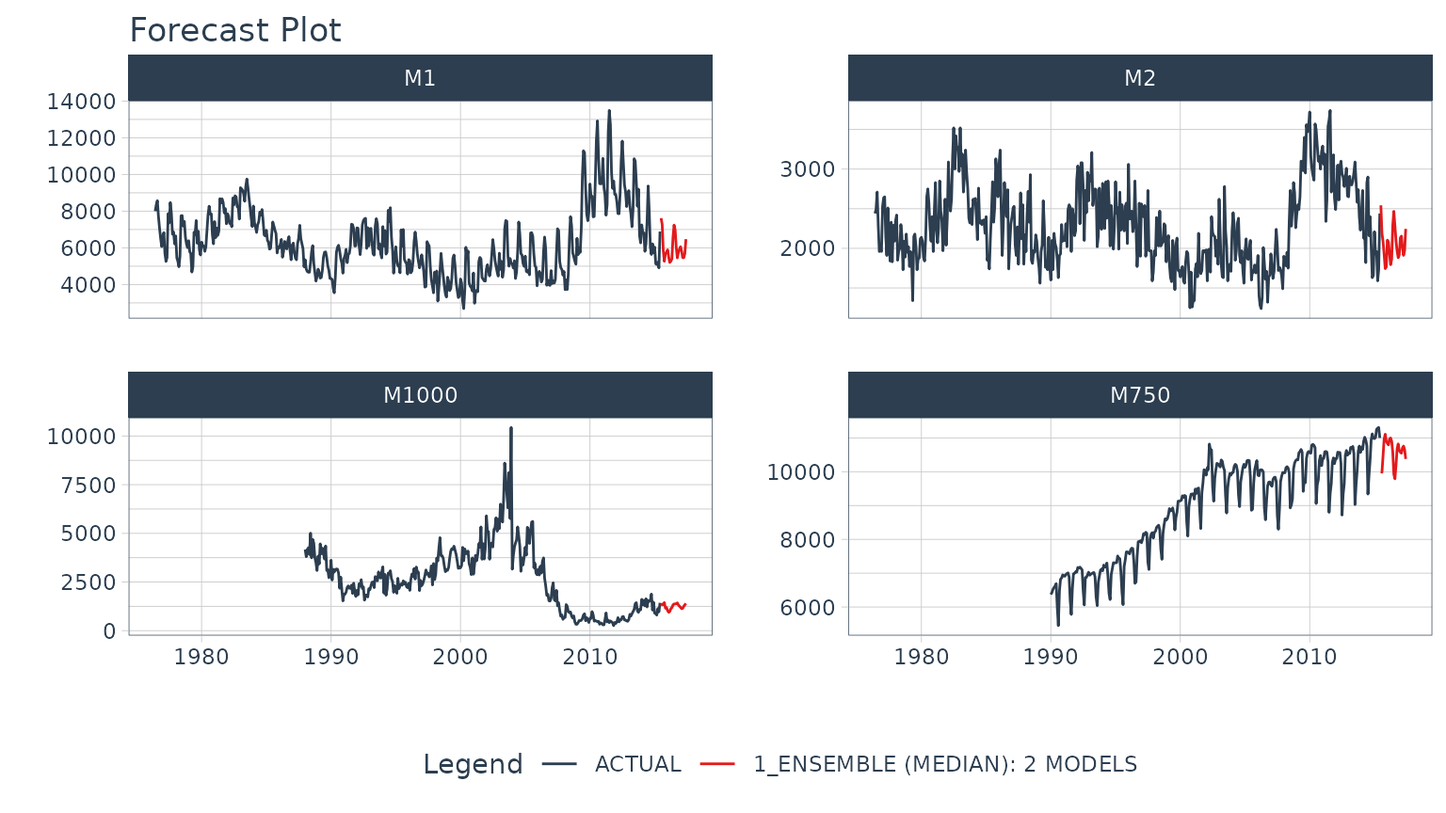
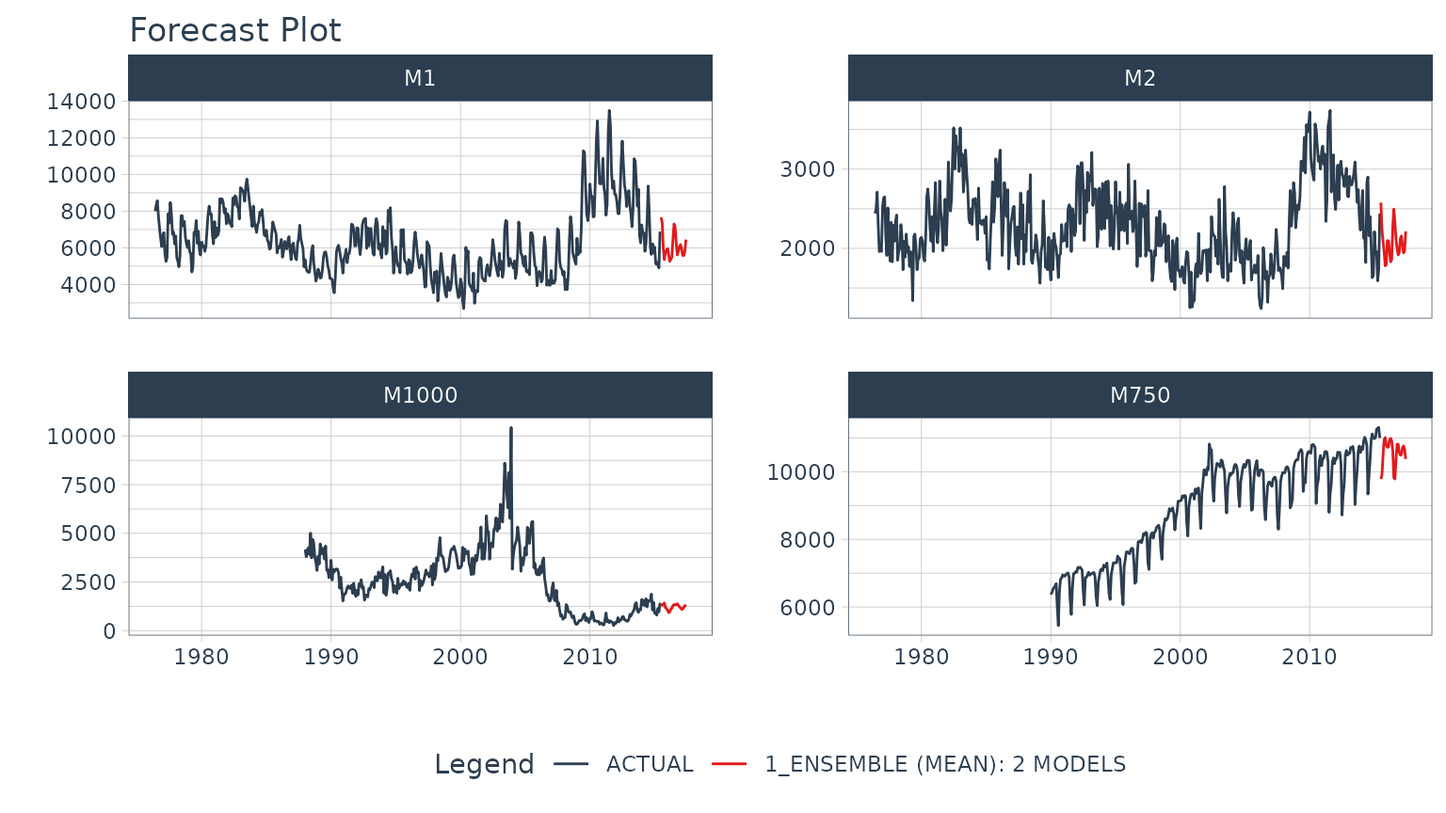
Built site for modeltime.ensemble: 0.3.0.9000@358ac2a

diff --git a/articles/recursive-ensembles.html b/articles/recursive-ensembles.html
@@ -5,7 +5,7 @@
 <meta charset="utf-8">
 <meta http-equiv="X-UA-Compatible" content="IE=edge">
 <meta name="viewport" content="width=device-width, initial-scale=1.0">
-<title>Forecasting with Recursive Ensembles • modeltime.ensemble</title>
+<title>Autoregressive Forecasting (Recursive Ensembles) • modeltime.ensemble</title>
 <!-- favicons --><link rel="icon" type="image/png" sizes="16x16" href="../favicon-16x16.png">
 <link rel="icon" type="image/png" sizes="32x32" href="../favicon-32x32.png">
 <link rel="apple-touch-icon" type="image/png" sizes="180x180" href="../apple-touch-icon.png">
@@ -17,7 +17,7 @@
 <script src="../bootstrap-toc.js"></script><!-- Font Awesome icons --><link rel="stylesheet" href="https://cdnjs.cloudflare.com/ajax/libs/font-awesome/5.12.1/css/all.min.css" integrity="sha256-mmgLkCYLUQbXn0B1SRqzHar6dCnv9oZFPEC1g1cwlkk=" crossorigin="anonymous">
 <link rel="stylesheet" href="https://cdnjs.cloudflare.com/ajax/libs/font-awesome/5.12.1/css/v4-shims.min.css" integrity="sha256-wZjR52fzng1pJHwx4aV2AO3yyTOXrcDW7jBpJtTwVxw=" crossorigin="anonymous">
 <!-- clipboard.js --><script src="https://cdnjs.cloudflare.com/ajax/libs/clipboard.js/2.0.6/clipboard.min.js" integrity="sha256-inc5kl9MA1hkeYUt+EC3BhlIgyp/2jDIyBLS6k3UxPI=" crossorigin="anonymous"></script><!-- headroom.js --><script src="https://cdnjs.cloudflare.com/ajax/libs/headroom/0.11.0/headroom.min.js" integrity="sha256-AsUX4SJE1+yuDu5+mAVzJbuYNPHj/WroHuZ8Ir/CkE0=" crossorigin="anonymous"></script><script src="https://cdnjs.cloudflare.com/ajax/libs/headroom/0.11.0/jQuery.headroom.min.js" integrity="sha256-ZX/yNShbjqsohH1k95liqY9Gd8uOiE1S4vZc+9KQ1K4=" crossorigin="anonymous"></script><!-- pkgdown --><link href="../pkgdown.css" rel="stylesheet">
-<script src="../pkgdown.js"></script><meta property="og:title" content="Forecasting with Recursive Ensembles">
+<script src="../pkgdown.js"></script><meta property="og:title" content="Autoregressive Forecasting (Recursive Ensembles)">
 <meta property="og:description" content="modeltime.ensemble">
 <!-- mathjax --><script src="https://cdnjs.cloudflare.com/ajax/libs/mathjax/2.7.5/MathJax.js" integrity="sha256-nvJJv9wWKEm88qvoQl9ekL2J+k/RWIsaSScxxlsrv8k=" crossorigin="anonymous"></script><script src="https://cdnjs.cloudflare.com/ajax/libs/mathjax/2.7.5/config/TeX-AMS-MML_HTMLorMML.js" integrity="sha256-84DKXVJXs0/F8OTMzX4UR909+jtl4G7SPypPavF+GfA=" crossorigin="anonymous"></script><!--[if lt IE 9]>
 <script src="https://oss.maxcdn.com/html5shiv/3.7.3/html5shiv.min.js"></script>
@@ -70,7 +70,7 @@
       <a href="../articles/getting-started-with-modeltime-ensemble.html">Getting Started with Modeltime</a>
     </li>
     <li>
-      <a href="../articles/recursive-ensembles.html">Recursive Ensemble Forecasting</a>
+      <a href="../articles/recursive-ensembles.html">Autoregressive Forecasting (Recursive Ensembles)</a>
     </li>
   </ul>
 </li>
@@ -156,7 +156,7 @@
       </header><script src="recursive-ensembles_files/accessible-code-block-0.0.1/empty-anchor.js"></script><div class="row">
   <div class="col-md-9 contents">
     <div class="page-header toc-ignore">
-      <h1 data-toc-skip>Forecasting with Recursive Ensembles</h1>
+      <h1 data-toc-skip>Autoregressive Forecasting (Recursive Ensembles)</h1>
             
       
       <small class="dont-index">Source: <a href="https://github.com/business-science/modeltime.ensemble/blob/master/vignettes/recursive-ensembles.Rmd"><code>vignettes/recursive-ensembles.Rmd</code></a></small>
@@ -180,7 +180,7 @@
 <li><p><strong>Single ensemble recursive predictions</strong> - Effectively turning any <code>ensemble</code> model into an Autoregressive (AR) model</p></li>
 <li><p><strong>Panel ensembles recursive predictions</strong> - In many situations we need to forecast <strong>more than one time series</strong>. We can batch-process these with 1 model by processing time series groups as panels. This technique can be extended to recursive forecasting for scalable models (1 model that predicts many time series).</p></li>
 </ol>
-<p>Here’s an example of a panel forecast that uses a recursive ensemble with a Linear Regression and MARS model.</p>
+<p>Here’s an example of a panel forecast that uses a recursive ensemble with a Elastic Net and MARS model.</p>
 <p><img src="panel-ensemble.jpg" width="95%" style="display: block; margin: auto;"></p>
 </div>
 <div id="single-ensemble-recursive-example" class="section level1">
@@ -195,6 +195,7 @@
 <span class="kw"><a href="https://rdrr.io/r/base/library.html">library</a></span><span class="op">(</span><span class="va"><a href="https://github.com/business-science/modeltime">modeltime</a></span><span class="op">)</span>
 <span class="kw"><a href="https://rdrr.io/r/base/library.html">library</a></span><span class="op">(</span><span class="va"><a href="https://tidymodels.tidymodels.org">tidymodels</a></span><span class="op">)</span>
 <span class="kw"><a href="https://rdrr.io/r/base/library.html">library</a></span><span class="op">(</span><span class="va"><a href="http://www.milbo.users.sonic.net/earth/">earth</a></span><span class="op">)</span>
+<span class="kw"><a href="https://rdrr.io/r/base/library.html">library</a></span><span class="op">(</span><span class="va"><a href="https://glmnet.stanford.edu">glmnet</a></span><span class="op">)</span>
 <span class="kw"><a href="https://rdrr.io/r/base/library.html">library</a></span><span class="op">(</span><span class="va"><a href="http://tidyverse.tidyverse.org">tidyverse</a></span><span class="op">)</span>
 <span class="kw"><a href="https://rdrr.io/r/base/library.html">library</a></span><span class="op">(</span><span class="va"><a href="https://lubridate.tidyverse.org">lubridate</a></span><span class="op">)</span>
 <span class="kw"><a href="https://rdrr.io/r/base/library.html">library</a></span><span class="op">(</span><span class="va"><a href="https://github.com/business-science/timetk">timetk</a></span><span class="op">)</span></code></pre></div>
@@ -209,34 +210,35 @@
         .bind_data  <span class="op">=</span> <span class="cn">TRUE</span>
     <span class="op">)</span> <span class="op">%&gt;%</span>
     <span class="fu">ungroup</span><span class="op">(</span><span class="op">)</span></code></pre></div>
-<p>The next step is to create a recipe where we specify the formula we are going to use and create the lagged variables that our model will use. Notice that we create lags up to our forecast horizon.</p>
+<p>The next step is to create a <strong><em>Transformer Function</em></strong> where we create the lagged variables that our model will use. Notice that we create lags up to our forecast horizon. We could also include rolling features and any number of other “engineered features” based on lags.</p>
 <div class="sourceCode" id="cb3"><pre class="downlit sourceCode r">
-<code class="sourceCode R"><span class="va">recipe_lag</span> <span class="op">&lt;-</span> <span class="fu">recipe</span><span class="op">(</span><span class="va">value</span> <span class="op">~</span> <span class="va">date</span>, <span class="va">m750_extended</span><span class="op">)</span> <span class="op">%&gt;%</span>
-    <span class="fu">step_lag</span><span class="op">(</span><span class="va">value</span>, lag <span class="op">=</span> <span class="fl">1</span><span class="op">:</span><span class="va">FORECAST_HORIZON</span><span class="op">)</span>
+<code class="sourceCode R"><span class="va">lag_transformer</span> <span class="op">&lt;-</span> <span class="kw">function</span><span class="op">(</span><span class="va">data</span><span class="op">)</span><span class="op">{</span>
+    <span class="va">data</span> <span class="op">%&gt;%</span>
+        <span class="fu"><a href="https://rdrr.io/pkg/timetk/man/tk_augment_lags.html">tk_augment_lags</a></span><span class="op">(</span><span class="va">value</span>, .lags <span class="op">=</span> <span class="fl">1</span><span class="op">:</span><span class="va">FORECAST_HORIZON</span><span class="op">)</span>
+<span class="op">}</span>
 
 <span class="co"># Data Preparation</span>
-<span class="va">m750_lagged</span> <span class="op">&lt;-</span> <span class="va">recipe_lag</span> <span class="op">%&gt;%</span> <span class="fu">prep</span><span class="op">(</span><span class="op">)</span> <span class="op">%&gt;%</span> <span class="fu">juice</span><span class="op">(</span><span class="op">)</span>
+<span class="va">m750_lagged</span> <span class="op">&lt;-</span> <span class="va">m750_extended</span> <span class="op">%&gt;%</span> <span class="fu">lag_transformer</span><span class="op">(</span><span class="op">)</span>
 <span class="va">m750_lagged</span></code></pre></div>
-<pre><code>#&gt; # A tibble: 330 x 26
-#&gt;    date       value lag_1_value lag_2_value lag_3_value lag_4_value lag_5_value
-#&gt;    &lt;date&gt;     &lt;dbl&gt;       &lt;dbl&gt;       &lt;dbl&gt;       &lt;dbl&gt;       &lt;dbl&gt;       &lt;dbl&gt;
-#&gt;  1 1990-01-01  6370          NA          NA          NA          NA          NA
-#&gt;  2 1990-02-01  6430        6370          NA          NA          NA          NA
-#&gt;  3 1990-03-01  6520        6430        6370          NA          NA          NA
-#&gt;  4 1990-04-01  6580        6520        6430        6370          NA          NA
-#&gt;  5 1990-05-01  6620        6580        6520        6430        6370          NA
-#&gt;  6 1990-06-01  6690        6620        6580        6520        6430        6370
-#&gt;  7 1990-07-01  6000        6690        6620        6580        6520        6430
-#&gt;  8 1990-08-01  5450        6000        6690        6620        6580        6520
-#&gt;  9 1990-09-01  6480        5450        6000        6690        6620        6580
-#&gt; 10 1990-10-01  6820        6480        5450        6000        6690        6620
-#&gt; # … with 320 more rows, and 19 more variables: lag_6_value &lt;dbl&gt;,
-#&gt; #   lag_7_value &lt;dbl&gt;, lag_8_value &lt;dbl&gt;, lag_9_value &lt;dbl&gt;,
-#&gt; #   lag_10_value &lt;dbl&gt;, lag_11_value &lt;dbl&gt;, lag_12_value &lt;dbl&gt;,
-#&gt; #   lag_13_value &lt;dbl&gt;, lag_14_value &lt;dbl&gt;, lag_15_value &lt;dbl&gt;,
-#&gt; #   lag_16_value &lt;dbl&gt;, lag_17_value &lt;dbl&gt;, lag_18_value &lt;dbl&gt;,
-#&gt; #   lag_19_value &lt;dbl&gt;, lag_20_value &lt;dbl&gt;, lag_21_value &lt;dbl&gt;,
-#&gt; #   lag_22_value &lt;dbl&gt;, lag_23_value &lt;dbl&gt;, lag_24_value &lt;dbl&gt;</code></pre>
+<pre><code>#&gt; # A tibble: 330 x 27
+#&gt;    id    date       value value_lag1 value_lag2 value_lag3 value_lag4 value_lag5
+#&gt;    &lt;fct&gt; &lt;date&gt;     &lt;dbl&gt;      &lt;dbl&gt;      &lt;dbl&gt;      &lt;dbl&gt;      &lt;dbl&gt;      &lt;dbl&gt;
+#&gt;  1 M750  1990-01-01  6370         NA         NA         NA         NA         NA
+#&gt;  2 M750  1990-02-01  6430       6370         NA         NA         NA         NA
+#&gt;  3 M750  1990-03-01  6520       6430       6370         NA         NA         NA
+#&gt;  4 M750  1990-04-01  6580       6520       6430       6370         NA         NA
+#&gt;  5 M750  1990-05-01  6620       6580       6520       6430       6370         NA
+#&gt;  6 M750  1990-06-01  6690       6620       6580       6520       6430       6370
+#&gt;  7 M750  1990-07-01  6000       6690       6620       6580       6520       6430
+#&gt;  8 M750  1990-08-01  5450       6000       6690       6620       6580       6520
+#&gt;  9 M750  1990-09-01  6480       5450       6000       6690       6620       6580
+#&gt; 10 M750  1990-10-01  6820       6480       5450       6000       6690       6620
+#&gt; # … with 320 more rows, and 19 more variables: value_lag6 &lt;dbl&gt;,
+#&gt; #   value_lag7 &lt;dbl&gt;, value_lag8 &lt;dbl&gt;, value_lag9 &lt;dbl&gt;, value_lag10 &lt;dbl&gt;,
+#&gt; #   value_lag11 &lt;dbl&gt;, value_lag12 &lt;dbl&gt;, value_lag13 &lt;dbl&gt;, value_lag14 &lt;dbl&gt;,
+#&gt; #   value_lag15 &lt;dbl&gt;, value_lag16 &lt;dbl&gt;, value_lag17 &lt;dbl&gt;, value_lag18 &lt;dbl&gt;,
+#&gt; #   value_lag19 &lt;dbl&gt;, value_lag20 &lt;dbl&gt;, value_lag21 &lt;dbl&gt;, value_lag22 &lt;dbl&gt;,
+#&gt; #   value_lag23 &lt;dbl&gt;, value_lag24 &lt;dbl&gt;</code></pre>
 <p>We divide the data set into training dataset and future dataset:</p>
 <div class="sourceCode" id="cb5"><pre class="downlit sourceCode r">
 <code class="sourceCode R"><span class="va">train_data</span> <span class="op">&lt;-</span> <span class="va">m750_lagged</span> <span class="op">%&gt;%</span>
@@ -245,16 +247,26 @@
 
 <span class="va">future_data</span> <span class="op">&lt;-</span> <span class="va">m750_lagged</span> <span class="op">%&gt;%</span>
     <span class="fu"><a href="https://rdrr.io/r/stats/filter.html">filter</a></span><span class="op">(</span><span class="fu"><a href="https://rdrr.io/r/base/NA.html">is.na</a></span><span class="op">(</span><span class="va">value</span><span class="op">)</span><span class="op">)</span></code></pre></div>
-<p>Next, we are going to create two models that we will then join into an ensemble. The first model is a linear model while the second model is a MARS model. In a real scenario, we would typically do a pre-selection work where we would analyze more models and keep those with better performance to make the ensemble.</p>
+<p>Next, we are going to create two models that we will then join into an ensemble.</p>
+<ol style="list-style-type: decimal">
+<li>The first model is a Linear Regression model</li>
+<li>The second model is a MARS model</li>
+</ol>
+<p>In a real scenario, we would typically do a pre-selection work where we would analyze more models and keep those with better performance to make the ensemble.</p>
 <div class="sourceCode" id="cb6"><pre class="downlit sourceCode r">
 <code class="sourceCode R"><span class="va">model_fit_lm</span> <span class="op">&lt;-</span> <span class="fu">linear_reg</span><span class="op">(</span><span class="op">)</span> <span class="op">%&gt;%</span>
     <span class="fu">set_engine</span><span class="op">(</span><span class="st">"lm"</span><span class="op">)</span> <span class="op">%&gt;%</span>
-    <span class="fu">fit</span><span class="op">(</span><span class="va">value</span> <span class="op">~</span> <span class="va">.</span>, data <span class="op">=</span> <span class="va">train_data</span><span class="op">)</span>
+    <span class="fu">fit</span><span class="op">(</span><span class="va">value</span> <span class="op">~</span> <span class="va">.</span>, data <span class="op">=</span> <span class="va">train_data</span> <span class="op">%&gt;%</span> <span class="fu">select</span><span class="op">(</span><span class="op">-</span><span class="va">id</span><span class="op">)</span><span class="op">)</span>
 
 <span class="va">model_fit_mars</span> <span class="op">&lt;-</span> <span class="fu">mars</span><span class="op">(</span><span class="st">"regression"</span><span class="op">)</span> <span class="op">%&gt;%</span>
     <span class="fu">set_engine</span><span class="op">(</span><span class="st">"earth"</span>, endspan <span class="op">=</span> <span class="fl">24</span><span class="op">)</span> <span class="op">%&gt;%</span>
-    <span class="fu">fit</span><span class="op">(</span><span class="va">value</span> <span class="op">~</span> <span class="va">.</span>, data <span class="op">=</span> <span class="va">train_data</span><span class="op">)</span></code></pre></div>
-<p>The next step is to create an ensemble of type mean (in which the predictions of the two models will be averaged) and right after that we use the <code><a href="https://rdrr.io/pkg/modeltime/man/recursive.html">recursive()</a></code> function to create the recursive model. You can consult all the information of the function by typing in the console <code><a href="https://rdrr.io/pkg/modeltime/man/recursive.html">?modeltime::recursive</a></code>.</p>
+    <span class="fu">fit</span><span class="op">(</span><span class="va">value</span> <span class="op">~</span> <span class="va">.</span>, data <span class="op">=</span> <span class="va">train_data</span> <span class="op">%&gt;%</span> <span class="fu">select</span><span class="op">(</span><span class="op">-</span><span class="va">id</span><span class="op">)</span><span class="op">)</span></code></pre></div>
+<p>The next step is to create an ensemble of type mean (in which the predictions of the two models will be averaged) and right after that we use the <code><a href="https://rdrr.io/pkg/modeltime/man/recursive.html">recursive()</a></code> function to create the recursive model.</p>
+<ul>
+<li>The <code><a href="https://rdrr.io/pkg/modeltime/man/recursive.html">recursive()</a></code> function tells the ensemble to use recursion during the prediction process</li>
+<li>The recursive model uses the <strong><em>Transformer Function</em></strong> and <code>train_tail</code> to generate transformations (e.g. lags) during the prediction process</li>
+</ul>
+<p>You can consult all the information of the function by typing in the console <code><a href="https://rdrr.io/pkg/modeltime/man/recursive.html">?modeltime::recursive</a></code>.</p>
 <div class="sourceCode" id="cb7"><pre class="downlit sourceCode r">
 <code class="sourceCode R"><span class="va">recursive_ensemble</span> <span class="op">&lt;-</span> <span class="fu"><a href="https://rdrr.io/pkg/modeltime/man/modeltime_table.html">modeltime_table</a></span><span class="op">(</span>
     <span class="va">model_fit_lm</span>,
@@ -262,7 +274,7 @@
 <span class="op">)</span> <span class="op">%&gt;%</span>
     <span class="fu"><a href="../reference/ensemble_average.html">ensemble_average</a></span><span class="op">(</span>type <span class="op">=</span> <span class="st">"mean"</span><span class="op">)</span> <span class="op">%&gt;%</span>
     <span class="fu"><a href="https://rdrr.io/pkg/modeltime/man/recursive.html">recursive</a></span><span class="op">(</span>
-        transform  <span class="op">=</span> <span class="va">recipe_lag</span>,
+        transform  <span class="op">=</span> <span class="va">lag_transformer</span>,
         train_tail <span class="op">=</span> <span class="fu"><a href="https://rdrr.io/r/utils/head.html">tail</a></span><span class="op">(</span><span class="va">train_data</span>, <span class="va">FORECAST_HORIZON</span><span class="op">)</span>
     <span class="op">)</span>
 
@@ -312,7 +324,7 @@
         .bind_data  <span class="op">=</span> <span class="cn">TRUE</span>
     <span class="op">)</span> <span class="op">%&gt;%</span>
     <span class="fu">ungroup</span><span class="op">(</span><span class="op">)</span></code></pre></div>
-<p>Then we create a transformer function that will be in charge of generating the lags for each time series up to each forecasting horizon:</p>
+<p>Then we create a <strong><em>Transformer Function</em></strong> that will be in charge of generating the lags for each time series up to each forecasting horizon. Note that this time we use <strong>grouped lags</strong> to generate lags by group. This is important when we have multiple time series. Make sure to ungroup after the lagging process.</p>
 <div class="sourceCode" id="cb11"><pre class="downlit sourceCode r">
 <code class="sourceCode R"><span class="va">lag_transformer_grouped</span> <span class="op">&lt;-</span> <span class="kw">function</span><span class="op">(</span><span class="va">data</span><span class="op">)</span><span class="op">{</span>
     <span class="va">data</span> <span class="op">%&gt;%</span>
@@ -345,50 +357,60 @@
 #&gt; #   value_lag15 &lt;dbl&gt;, value_lag16 &lt;dbl&gt;, value_lag17 &lt;dbl&gt;, value_lag18 &lt;dbl&gt;,
 #&gt; #   value_lag19 &lt;dbl&gt;, value_lag20 &lt;dbl&gt;, value_lag21 &lt;dbl&gt;, value_lag22 &lt;dbl&gt;,
 #&gt; #   value_lag23 &lt;dbl&gt;, value_lag24 &lt;dbl&gt;</code></pre>
+<p>We split into training data and future data.</p>
 <div class="sourceCode" id="cb14"><pre class="downlit sourceCode r">
 <code class="sourceCode R"><span class="va">train_data</span> <span class="op">&lt;-</span> <span class="va">m4_lags</span> <span class="op">%&gt;%</span>
     <span class="fu">drop_na</span><span class="op">(</span><span class="op">)</span>
 
 <span class="va">future_data</span> <span class="op">&lt;-</span> <span class="va">m4_lags</span> <span class="op">%&gt;%</span>
     <span class="fu"><a href="https://rdrr.io/r/stats/filter.html">filter</a></span><span class="op">(</span><span class="fu"><a href="https://rdrr.io/r/base/NA.html">is.na</a></span><span class="op">(</span><span class="va">value</span><span class="op">)</span><span class="op">)</span></code></pre></div>
-<p>Next, we are going to create two models that we will then join into an ensemble. The first model is a linear model while the second model is a MARS model.</p>
+<p>Next, we are going to create two models that we will then join into an ensemble.</p>
+<ol style="list-style-type: decimal">
+<li>The first model is an Elastic Net (GLMNET) model</li>
+<li>The second model is a MARS model</li>
+</ol>
+<p>The elastic net applies penalty to the lagged regressors preventing bad lags from dominating the results. This can show an improvement versus a standard Linear Regression.</p>
 <div class="sourceCode" id="cb15"><pre class="downlit sourceCode r">
-<code class="sourceCode R"><span class="va">model_fit_lm</span> <span class="op">&lt;-</span> <span class="fu">linear_reg</span><span class="op">(</span><span class="op">)</span> <span class="op">%&gt;%</span>
-    <span class="fu">set_engine</span><span class="op">(</span><span class="st">"lm"</span><span class="op">)</span> <span class="op">%&gt;%</span>
+<code class="sourceCode R"><span class="va">model_fit_glmnet</span> <span class="op">&lt;-</span> <span class="fu">linear_reg</span><span class="op">(</span>penalty <span class="op">=</span> <span class="fl">1</span><span class="op">)</span> <span class="op">%&gt;%</span>
+    <span class="fu">set_engine</span><span class="op">(</span><span class="st">"glmnet"</span><span class="op">)</span> <span class="op">%&gt;%</span>
     <span class="fu">fit</span><span class="op">(</span><span class="va">value</span> <span class="op">~</span> <span class="va">.</span>, data <span class="op">=</span> <span class="va">train_data</span><span class="op">)</span>
 
-<span class="va">model_fit_mars</span> <span class="op">&lt;-</span> <span class="fu">mars</span><span class="op">(</span><span class="st">"regression"</span><span class="op">)</span> <span class="op">%&gt;%</span>
-    <span class="fu">set_engine</span><span class="op">(</span><span class="st">"earth"</span><span class="op">)</span> <span class="op">%&gt;%</span>
+<span class="va">model_fit_mars</span> <span class="op">&lt;-</span> <span class="fu">mars</span><span class="op">(</span><span class="st">"regression"</span>, num_terms <span class="op">=</span> <span class="fl">7</span><span class="op">)</span> <span class="op">%&gt;%</span>
+    <span class="fu">set_engine</span><span class="op">(</span><span class="st">"earth"</span>, endspan <span class="op">=</span> <span class="fl">24</span><span class="op">)</span> <span class="op">%&gt;%</span>
     <span class="fu">fit</span><span class="op">(</span><span class="va">value</span> <span class="op">~</span> <span class="va">.</span>, data <span class="op">=</span> <span class="va">train_data</span><span class="op">)</span></code></pre></div>
-<p>The next step is to create an ensemble of type mean (in which the predictions of the two models will be averaged) and right after that we use the <code><a href="https://rdrr.io/pkg/modeltime/man/recursive.html">recursive()</a></code> function to create the recursive model. Note that unlike the previous example, in this case we have to pass to the recursive function the argument <code>id</code> and we have to use the <code><a href="https://rdrr.io/pkg/modeltime/man/panel_tail.html">panel_tail()</a></code> function to create the train_tail.</p>
+<p>The next step is to create an ensemble of type mean (in which the predictions of the two models will be averaged) and right after that we use the <code><a href="https://rdrr.io/pkg/modeltime/man/recursive.html">recursive()</a></code> function to create the recursive model. Unlike the previous example:</p>
+<ul>
+<li>We have to pass to the recursive function the argument <code>id</code> specifying ID’s for each time series group</li>
+<li>We have to use the <code><a href="https://rdrr.io/pkg/modeltime/man/panel_tail.html">panel_tail()</a></code> function to create the train_tail by group.</li>
+</ul>
 <div class="sourceCode" id="cb16"><pre class="downlit sourceCode r">
-<code class="sourceCode R"><span class="va">recursive_ensemble_p</span> <span class="op">&lt;-</span> <span class="fu"><a href="https://rdrr.io/pkg/modeltime/man/modeltime_table.html">modeltime_table</a></span><span class="op">(</span>
+<code class="sourceCode R"><span class="va">recursive_ensemble_panel</span> <span class="op">&lt;-</span> <span class="fu"><a href="https://rdrr.io/pkg/modeltime/man/modeltime_table.html">modeltime_table</a></span><span class="op">(</span>
     <span class="va">model_fit_mars</span>,
-    <span class="va">model_fit_lm</span>
+    <span class="va">model_fit_glmnet</span>
 <span class="op">)</span> <span class="op">%&gt;%</span>
-    <span class="fu"><a href="../reference/ensemble_average.html">ensemble_average</a></span><span class="op">(</span>type <span class="op">=</span> <span class="st">"median"</span><span class="op">)</span> <span class="op">%&gt;%</span>
+    <span class="fu"><a href="../reference/ensemble_average.html">ensemble_average</a></span><span class="op">(</span>type <span class="op">=</span> <span class="st">"mean"</span><span class="op">)</span> <span class="op">%&gt;%</span>
     <span class="fu"><a href="https://rdrr.io/pkg/modeltime/man/recursive.html">recursive</a></span><span class="op">(</span>
         transform  <span class="op">=</span> <span class="va">lag_transformer_grouped</span>,
         train_tail <span class="op">=</span> <span class="fu"><a href="https://rdrr.io/pkg/modeltime/man/panel_tail.html">panel_tail</a></span><span class="op">(</span><span class="va">train_data</span>, <span class="va">id</span>, <span class="va">FORECAST_HORIZON</span><span class="op">)</span>,
-        id <span class="op">=</span> <span class="st">"id"</span>
+        id         <span class="op">=</span> <span class="st">"id"</span>
     <span class="op">)</span>
 
-<span class="va">recursive_ensemble_p</span></code></pre></div>
+<span class="va">recursive_ensemble_panel</span></code></pre></div>
 <pre><code>#&gt; Recursive [modeltime ensemble]
 #&gt; 
 #&gt; ── Modeltime Ensemble ───────────────────────────────────────────
-#&gt; Ensemble of 2 Models (MEDIAN)
+#&gt; Ensemble of 2 Models (MEAN)
 #&gt; 
 #&gt; # Modeltime Table
 #&gt; # A tibble: 2 x 3
 #&gt;   .model_id .model   .model_desc
 #&gt;       &lt;int&gt; &lt;list&gt;   &lt;chr&gt;      
 #&gt; 1         1 &lt;fit[+]&gt; EARTH      
-#&gt; 2         2 &lt;fit[+]&gt; LM</code></pre>
+#&gt; 2         2 &lt;fit[+]&gt; GLMNET</code></pre>
 <p>Finally, we predict over our dataset and visualize the predictions:</p>
 <div class="sourceCode" id="cb18"><pre class="downlit sourceCode r">
 <code class="sourceCode R"><span class="va">fcast</span> <span class="op">&lt;-</span> <span class="fu"><a href="https://rdrr.io/pkg/modeltime/man/modeltime_table.html">modeltime_table</a></span><span class="op">(</span>
-    <span class="va">recursive_ensemble_p</span>
+    <span class="va">recursive_ensemble_panel</span>
 <span class="op">)</span> <span class="op">%&gt;%</span>
     <span class="fu"><a href="https://rdrr.io/pkg/modeltime/man/modeltime_forecast.html">modeltime_forecast</a></span><span class="op">(</span>
         new_data <span class="op">=</span> <span class="va">future_data</span>,

diff --git a/reference/ensemble_model_spec.html b/reference/ensemble_model_spec.html
@@ -121,7 +121,7 @@ Predictions using ensemble_model_spec().
       <a href="../articles/getting-started-with-modeltime-ensemble.html">Getting Started with Modeltime</a>
     </li>
     <li>
-      <a href="../articles/recursive-ensembles.html">Recursive Ensemble Forecasting</a>
+      <a href="../articles/recursive-ensembles.html">Autoregressive Forecasting (Recursive Ensembles)</a>
     </li>
   </ul>
 </li>
@@ -337,7 +337,7 @@ up parallelization using <code>tune</code> via one of the backends such as
         control   <span class='op'>=</span> <span class='fu'>control_resamples</span><span class='op'>(</span>verbose <span class='op'>=</span> <span class='cn'>TRUE</span><span class='op'>)</span>
     <span class='op'>)</span>
 </div><div class='output co'>#&gt; ── Fitting Resamples ────────────────────────────────────────────
-#&gt; </div><div class='output co'>#&gt; <span class='message'>● Model ID: <span style='color: #0000BB;'>1</span><span> </span><span style='color: #0000BB;'>ARIMA(0,1,1)(0,1,1)[12]</span><span></span></div><div class='output co'>#&gt; <span class='message'></span><span style='color: #0000BB;'>i</span><span> </span><span style='color: #000000;'>Slice1: preprocessor 1/1</span><span></span></div><div class='output co'>#&gt; <span class='message'></span><span style='color: #00BB00;'>✓</span><span> </span><span style='color: #000000;'>Slice1: preprocessor 1/1</span><span></span></div><div class='output co'>#&gt; <span class='message'></span><span style='color: #0000BB;'>i</span><span> </span><span style='color: #000000;'>Slice1: preprocessor 1/1, model 1/1</span><span></span></div><div class='output co'>#&gt; <span class='message'>frequency = 12 observations per 1 year</span></div><div class='output co'>#&gt; <span class='message'></span><span style='color: #00BB00;'>✓</span><span> </span><span style='color: #000000;'>Slice1: preprocessor 1/1, model 1/1</span><span></span></div><div class='output co'>#&gt; <span class='message'></span><span style='color: #0000BB;'>i</span><span> </span><span style='color: #000000;'>Slice1: preprocessor 1/1, model 1/1 (predictions)</span><span></span></div><div class='output co'>#&gt; <span class='message'>● Model ID: </span><span style='color: #0000BB;'>2</span><span> </span><span style='color: #0000BB;'>PROPHET</span><span></span></div><div class='output co'>#&gt; <span class='message'></span><span style='color: #0000BB;'>i</span><span> </span><span style='color: #000000;'>Slice1: preprocessor 1/1</span><span></span></div><div class='output co'>#&gt; <span class='message'></span><span style='color: #00BB00;'>✓</span><span> </span><span style='color: #000000;'>Slice1: preprocessor 1/1</span><span></span></div><div class='output co'>#&gt; <span class='message'></span><span style='color: #0000BB;'>i</span><span> </span><span style='color: #000000;'>Slice1: preprocessor 1/1, model 1/1</span><span></span></div><div class='output co'>#&gt; <span class='message'>Disabling weekly seasonality. Run prophet with weekly.seasonality=TRUE to override this.</span></div><div class='output co'>#&gt; <span class='message'>Disabling daily seasonality. Run prophet with daily.seasonality=TRUE to override this.</span></div><div class='output co'>#&gt; <span class='message'></span><span style='color: #00BB00;'>✓</span><span> </span><span style='color: #000000;'>Slice1: preprocessor 1/1, model 1/1</span><span></span></div><div class='output co'>#&gt; <span class='message'></span><span style='color: #0000BB;'>i</span><span> </span><span style='color: #000000;'>Slice1: preprocessor 1/1, model 1/1 (predictions)</span><span></span></div><div class='output co'>#&gt; <span class='message'>● Model ID: </span><span style='color: #0000BB;'>3</span><span> </span><span style='color: #0000BB;'>GLMNET</span><span></span></div><div class='output co'>#&gt; <span class='message'></span><span style='color: #0000BB;'>i</span><span> </span><span style='color: #000000;'>Slice1: preprocessor 1/1</span><span></span></div><div class='output co'>#&gt; <span class='message'></span><span style='color: #00BB00;'>✓</span><span> </span><span style='color: #000000;'>Slice1: preprocessor 1/1</span><span></span></div><div class='output co'>#&gt; <span class='message'></span><span style='color: #0000BB;'>i</span><span> </span><span style='color: #000000;'>Slice1: preprocessor 1/1, model 1/1</span><span></span></div><div class='output co'>#&gt; <span class='message'></span><span style='color: #00BB00;'>✓</span><span> </span><span style='color: #000000;'>Slice1: preprocessor 1/1, model 1/1</span><span></span></div><div class='output co'>#&gt; <span class='message'></span><span style='color: #0000BB;'>i</span><span> </span><span style='color: #000000;'>Slice1: preprocessor 1/1, model 1/1 (predictions)</span><span></span></div><div class='output co'>#&gt; 4.559 sec elapsed
+#&gt; </div><div class='output co'>#&gt; <span class='message'>● Model ID: <span style='color: #0000BB;'>1</span><span> </span><span style='color: #0000BB;'>ARIMA(0,1,1)(0,1,1)[12]</span><span></span></div><div class='output co'>#&gt; <span class='message'></span><span style='color: #0000BB;'>i</span><span> </span><span style='color: #000000;'>Slice1: preprocessor 1/1</span><span></span></div><div class='output co'>#&gt; <span class='message'></span><span style='color: #00BB00;'>✓</span><span> </span><span style='color: #000000;'>Slice1: preprocessor 1/1</span><span></span></div><div class='output co'>#&gt; <span class='message'></span><span style='color: #0000BB;'>i</span><span> </span><span style='color: #000000;'>Slice1: preprocessor 1/1, model 1/1</span><span></span></div><div class='output co'>#&gt; <span class='message'>frequency = 12 observations per 1 year</span></div><div class='output co'>#&gt; <span class='message'></span><span style='color: #00BB00;'>✓</span><span> </span><span style='color: #000000;'>Slice1: preprocessor 1/1, model 1/1</span><span></span></div><div class='output co'>#&gt; <span class='message'></span><span style='color: #0000BB;'>i</span><span> </span><span style='color: #000000;'>Slice1: preprocessor 1/1, model 1/1 (predictions)</span><span></span></div><div class='output co'>#&gt; <span class='message'>● Model ID: </span><span style='color: #0000BB;'>2</span><span> </span><span style='color: #0000BB;'>PROPHET</span><span></span></div><div class='output co'>#&gt; <span class='message'></span><span style='color: #0000BB;'>i</span><span> </span><span style='color: #000000;'>Slice1: preprocessor 1/1</span><span></span></div><div class='output co'>#&gt; <span class='message'></span><span style='color: #00BB00;'>✓</span><span> </span><span style='color: #000000;'>Slice1: preprocessor 1/1</span><span></span></div><div class='output co'>#&gt; <span class='message'></span><span style='color: #0000BB;'>i</span><span> </span><span style='color: #000000;'>Slice1: preprocessor 1/1, model 1/1</span><span></span></div><div class='output co'>#&gt; <span class='message'>Disabling weekly seasonality. Run prophet with weekly.seasonality=TRUE to override this.</span></div><div class='output co'>#&gt; <span class='message'>Disabling daily seasonality. Run prophet with daily.seasonality=TRUE to override this.</span></div><div class='output co'>#&gt; <span class='message'></span><span style='color: #00BB00;'>✓</span><span> </span><span style='color: #000000;'>Slice1: preprocessor 1/1, model 1/1</span><span></span></div><div class='output co'>#&gt; <span class='message'></span><span style='color: #0000BB;'>i</span><span> </span><span style='color: #000000;'>Slice1: preprocessor 1/1, model 1/1 (predictions)</span><span></span></div><div class='output co'>#&gt; <span class='message'>● Model ID: </span><span style='color: #0000BB;'>3</span><span> </span><span style='color: #0000BB;'>GLMNET</span><span></span></div><div class='output co'>#&gt; <span class='message'></span><span style='color: #0000BB;'>i</span><span> </span><span style='color: #000000;'>Slice1: preprocessor 1/1</span><span></span></div><div class='output co'>#&gt; <span class='message'></span><span style='color: #00BB00;'>✓</span><span> </span><span style='color: #000000;'>Slice1: preprocessor 1/1</span><span></span></div><div class='output co'>#&gt; <span class='message'></span><span style='color: #0000BB;'>i</span><span> </span><span style='color: #000000;'>Slice1: preprocessor 1/1, model 1/1</span><span></span></div><div class='output co'>#&gt; <span class='message'></span><span style='color: #00BB00;'>✓</span><span> </span><span style='color: #000000;'>Slice1: preprocessor 1/1, model 1/1</span><span></span></div><div class='output co'>#&gt; <span class='message'></span><span style='color: #0000BB;'>i</span><span> </span><span style='color: #000000;'>Slice1: preprocessor 1/1, model 1/1 (predictions)</span><span></span></div><div class='output co'>#&gt; 5.127 sec elapsed
 #&gt; </div><div class='input'>
 <span class='co'># Step 2: Metalearner ----</span>
 
@@ -373,7 +373,7 @@ up parallelization using <code>tune</code> via one of the backends such as
 #&gt;  -2637.1730       0.5754      -0.1920       0.8551  
 #&gt; 
 #&gt; 
-#&gt; 0.463 sec elapsed
+#&gt; 0.495 sec elapsed
 #&gt; </div><div class='input'>
 <span class='va'>ensemble_fit_lm</span>
 </div><div class='output co'>#&gt; ── Modeltime Ensemble ───────────────────────────────────────────
@@ -472,7 +472,7 @@ up parallelization using <code>tune</code> via one of the backends such as
 #&gt; ...
 #&gt; and 11 more lines.
 #&gt; 
-#&gt; 5.017 sec elapsed
+#&gt; 5.684 sec elapsed
 #&gt; </div><div class='input'>
 <span class='va'>ensemble_fit_glmnet</span>
 </div><div class='output co'>#&gt; ── Modeltime Ensemble ───────────────────────────────────────────

diff --git a/articles/index.html b/articles/index.html
@@ -115,7 +115,7 @@
       <a href="../articles/getting-started-with-modeltime-ensemble.html">Getting Started with Modeltime</a>
     </li>
     <li>
-      <a href="../articles/recursive-ensembles.html">Recursive Ensemble Forecasting</a>
+      <a href="../articles/recursive-ensembles.html">Autoregressive Forecasting (Recursive Ensembles)</a>
     </li>
   </ul>
 </li>
@@ -211,7 +211,7 @@
       <dl>
         <dt><a href="getting-started-with-modeltime-ensemble.html">Getting Started with Modeltime Ensemble</a></dt>
         <dd></dt>
-        <dt><a href="recursive-ensembles.html">Forecasting with Recursive Ensembles</a></dt>
+        <dt><a href="recursive-ensembles.html">Autoregressive Forecasting (Recursive Ensembles)</a></dt>
         <dd></dt>
       </dl>
     </div>

diff --git a/reference/tidyeval.html b/reference/tidyeval.html
@@ -148,7 +148,7 @@ section of Advanced R." />
       <a href="../articles/getting-started-with-modeltime-ensemble.html">Getting Started with Modeltime</a>
     </li>
     <li>
-      <a href="../articles/recursive-ensembles.html">Recursive Ensemble Forecasting</a>
+      <a href="../articles/recursive-ensembles.html">Autoregressive Forecasting (Recursive Ensembles)</a>
     </li>
   </ul>
 </li>

diff --git a/reference/type_sum.mdl_time_ensemble.html b/reference/type_sum.mdl_time_ensemble.html
@@ -117,7 +117,7 @@ columns." />
       <a href="../articles/getting-started-with-modeltime-ensemble.html">Getting Started with Modeltime</a>
     </li>
     <li>
-      <a href="../articles/recursive-ensembles.html">Recursive Ensemble Forecasting</a>
+      <a href="../articles/recursive-ensembles.html">Autoregressive Forecasting (Recursive Ensembles)</a>
     </li>
   </ul>
 </li>

diff --git a/news/index.html b/news/index.html
@@ -115,7 +115,7 @@
       <a href="../articles/getting-started-with-modeltime-ensemble.html">Getting Started with Modeltime</a>
     </li>
     <li>
-      <a href="../articles/recursive-ensembles.html">Recursive Ensemble Forecasting</a>
+      <a href="../articles/recursive-ensembles.html">Autoregressive Forecasting (Recursive Ensembles)</a>
     </li>
   </ul>
 </li>

diff --git a/reference/ensemble_average.html b/reference/ensemble_average.html
@@ -116,7 +116,7 @@
       <a href="../articles/getting-started-with-modeltime-ensemble.html">Getting Started with Modeltime</a>
     </li>
     <li>
-      <a href="../articles/recursive-ensembles.html">Recursive Ensemble Forecasting</a>
+      <a href="../articles/recursive-ensembles.html">Autoregressive Forecasting (Recursive Ensembles)</a>
     </li>
   </ul>
 </li>

diff --git a/reference/ensemble_weighted.html b/reference/ensemble_weighted.html
@@ -116,7 +116,7 @@
       <a href="../articles/getting-started-with-modeltime-ensemble.html">Getting Started with Modeltime</a>
     </li>
     <li>
-      <a href="../articles/recursive-ensembles.html">Recursive Ensemble Forecasting</a>
+      <a href="../articles/recursive-ensembles.html">Autoregressive Forecasting (Recursive Ensembles)</a>
     </li>
   </ul>
 </li>

diff --git a/reference/index.html b/reference/index.html
@@ -115,7 +115,7 @@
       <a href="../articles/getting-started-with-modeltime-ensemble.html">Getting Started with Modeltime</a>
     </li>
     <li>
-      <a href="../articles/recursive-ensembles.html">Recursive Ensemble Forecasting</a>
+      <a href="../articles/recursive-ensembles.html">Autoregressive Forecasting (Recursive Ensembles)</a>
     </li>
   </ul>
 </li>

diff --git a/reference/pipe.html b/reference/pipe.html
@@ -116,7 +116,7 @@
       <a href="../articles/getting-started-with-modeltime-ensemble.html">Getting Started with Modeltime</a>
     </li>
     <li>
-      <a href="../articles/recursive-ensembles.html">Recursive Ensemble Forecasting</a>
+      <a href="../articles/recursive-ensembles.html">Autoregressive Forecasting (Recursive Ensembles)</a>
     </li>
   </ul>
 </li>

diff --git a/articles/getting-started-with-modeltime-ensemble.html b/articles/getting-started-with-modeltime-ensemble.html
@@ -70,7 +70,7 @@
       <a href="../articles/getting-started-with-modeltime-ensemble.html">Getting Started with Modeltime</a>
     </li>
     <li>
-      <a href="../articles/recursive-ensembles.html">Recursive Ensemble Forecasting</a>
+      <a href="../articles/recursive-ensembles.html">Autoregressive Forecasting (Recursive Ensembles)</a>
     </li>
   </ul>
 </li>

diff --git a/404.html b/404.html
@@ -115,7 +115,7 @@
       <a href="articles/getting-started-with-modeltime-ensemble.html">Getting Started with Modeltime</a>
     </li>
     <li>
-      <a href="articles/recursive-ensembles.html">Recursive Ensemble Forecasting</a>
+      <a href="articles/recursive-ensembles.html">Autoregressive Forecasting (Recursive Ensembles)</a>
     </li>
   </ul>
 </li>
